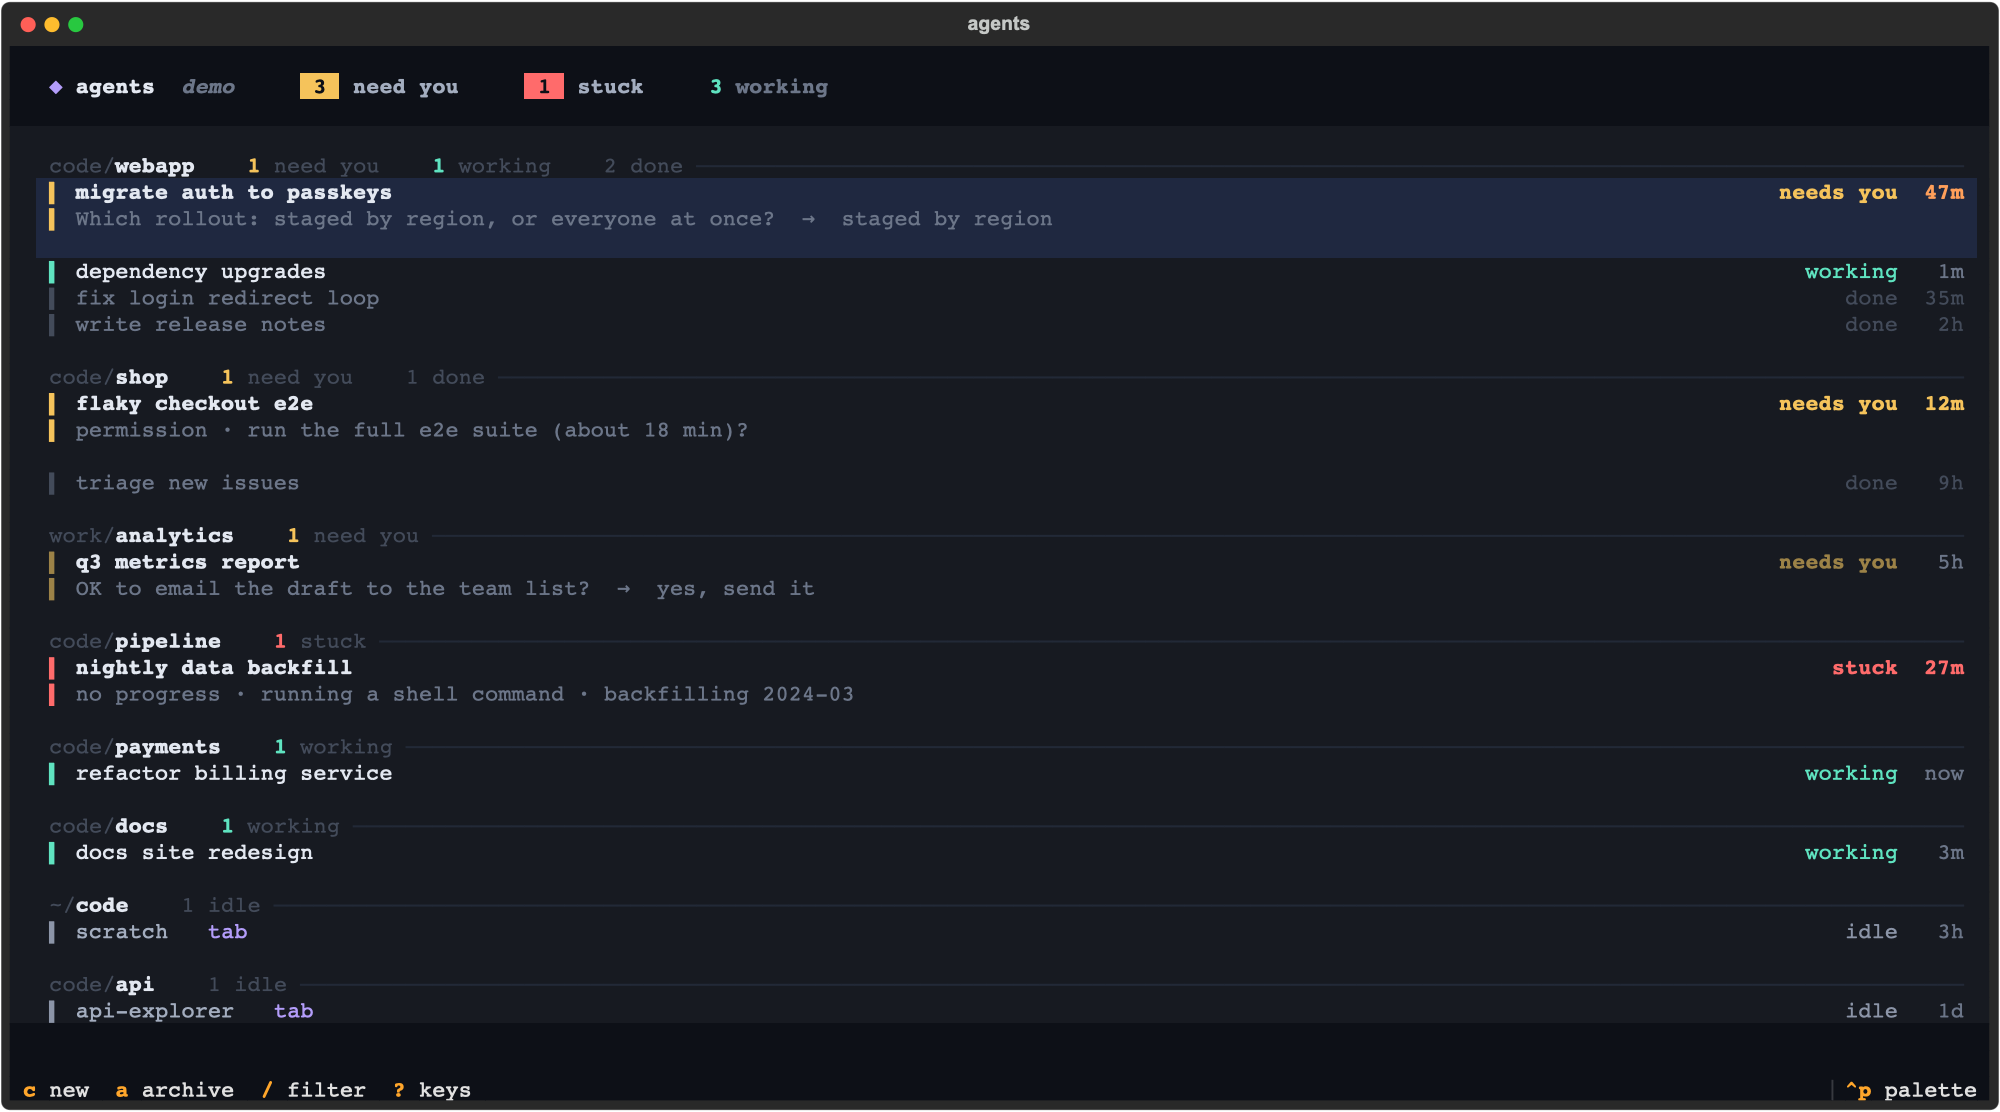
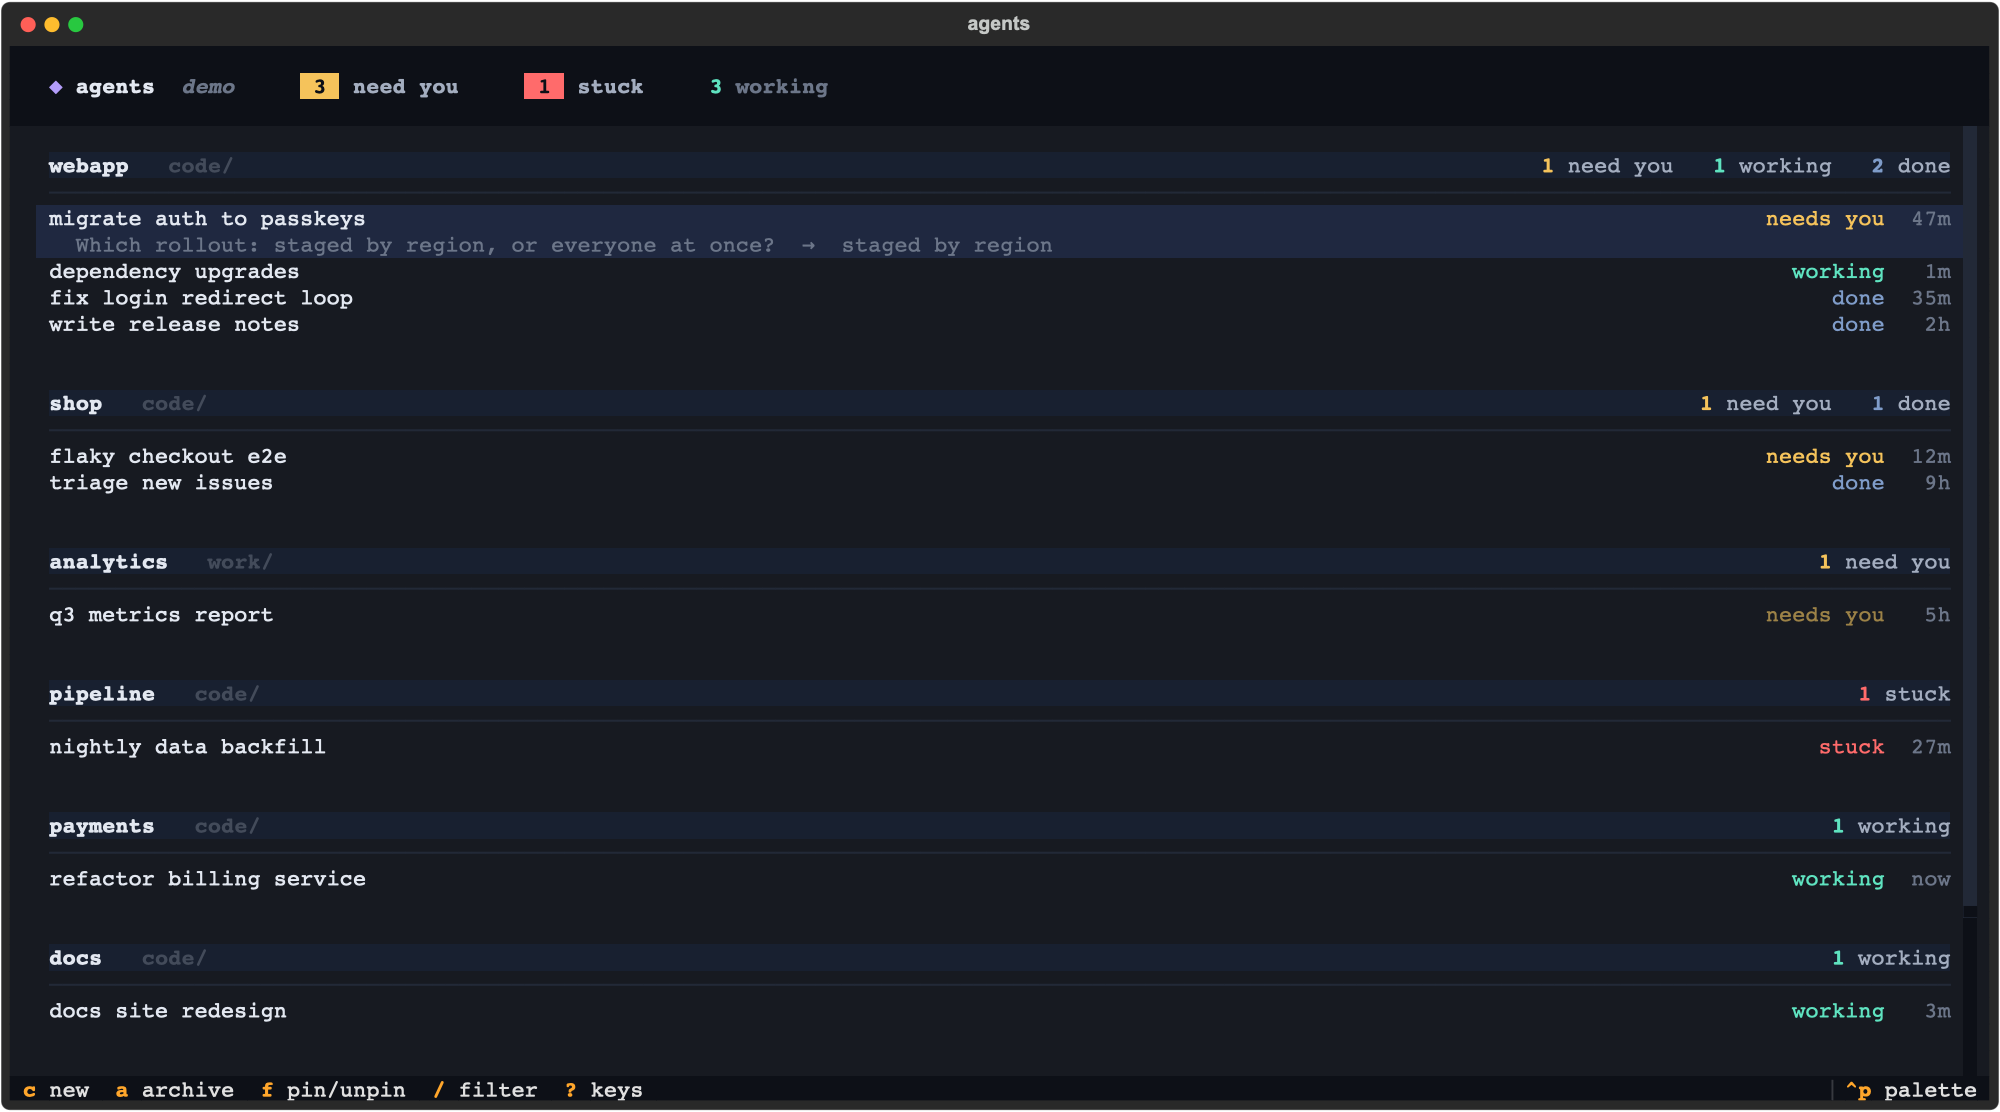
Consistent rows, firmer folders, self-tested updates
Every row is one line in the same type; only the state word carries colour
(done is blue, not faded). No left bars; the row under the cursor shows its
detail. Folders start with a tinted header band and a rule, two lines apart.
The board restarts into an update only after the new file passes --selftest.

diff --git a/tui/board.py b/tui/board.py
@@ -46,7 +46,8 @@ STATE = CLAUDE / "agents-board"
 STUCK_MS = 15 * 60_000
 PARK_MS = 2 * 86_400_000
 DONE_SHOWN = 8
-DEMO = "--demo" in sys.argv[1:]
+SELFTEST = "--selftest" in sys.argv[1:]
+DEMO = "--demo" in sys.argv[1:] or SELFTEST
 SELF = Path(__file__).resolve()
 SELF_MTIME = SELF.stat().st_mtime
 
@@ -54,6 +55,7 @@ SELF_MTIME = SELF.stat().st_mtime
 BG = "#0d1017"
 PANEL = "#131821"
 LINE = "#222937"
+BAND = "#182030"     # header bands: a folder / section starts here
 TEXT = "#e3e8f1"
 SOFT = "#a3adbf"
 DIM = "#6c7689"
@@ -66,6 +68,7 @@ TEAL = "#5fe3c0"
 SLATE = "#8c95a8"
 AMBER_SOFT = "#9c8247"   # needs you, but its process has exited ("asleep")
 RED_SOFT = "#a35a5a"
+BLUE = "#7f9cc9"     # done: its own calm colour, not faded out
 
 GROUPS: dict[str, dict[str, str]] = {
     "needs": {"title": "NEEDS YOU", "color": AMBER, "glyph": "●", "chip": "need you"},
@@ -326,8 +329,8 @@ def state_look(r: Row) -> tuple[str, str]:
         return "needs you", AMBER if live else AMBER_SOFT
     if r.group == "stuck":
         return "stuck", RED if live else RED_SOFT
-    return {"working": ("working", TEAL), "idle": ("idle", SLATE), "done": ("done", FAINT),
-            "parked": ("parked", FAINT)}[r.group]
+    return {"working": ("working", TEAL), "idle": ("idle", SLATE), "done": ("done", BLUE),
+            "parked": ("parked", DIM)}[r.group]
 
 
 def short_folder(cwd: str) -> str:
@@ -745,6 +748,8 @@ class Board(App[None]):
         self.shown: list[Row] = []
         self.side = SideViewer()
         self.restart = False
+        self.testing = False
+        self.rejected_mtime = 0.0
         self.by_folder = bool(_prefs().get("by_folder"))
         self._pins: set[str] = set()
         self.cursor_key = ""
@@ -772,7 +777,8 @@ class Board(App[None]):
             self.notify("Board updated to the latest version", timeout=6)
 
     def check_update(self) -> None:
-        """Heartbeat for /board, and a newer board.py on disk (an update): restart into it."""
+        """Heartbeat for /board, and a newer board.py on disk (an update): restart into it,
+        but only once the new version has passed its self-test."""
         ws = os.environ.get("CMUX_WORKSPACE_ID", "")
         if ws and not DEMO:
             try:
@@ -781,15 +787,31 @@ class Board(App[None]):
             except OSError:
                 pass
         try:
-            changed = SELF.stat().st_mtime != SELF_MTIME
-            # Restart only into a file that compiles: a half-saved edit keeps the running board.
-            if changed:
-                compile(SELF.read_text(), str(SELF), "exec")
-        except (OSError, SyntaxError, ValueError):
+            mtime = SELF.stat().st_mtime
+        except OSError:
             return
-        if changed:
+        if mtime != SELF_MTIME and mtime != self.rejected_mtime and not self.testing:
+            self.testing = True
+            self.try_update(mtime)
+
+    @work(thread=True, exclusive=True, group="update")
+    def try_update(self, mtime: float) -> None:
+        # Draw the new version headlessly first: one that fails stays out of the way.
+        try:
+            out = subprocess.run([sys.executable, str(SELF), "--selftest"], capture_output=True,
+                                 text=True, timeout=90)
+            ok = out.returncode == 0
+            why = (out.stderr or out.stdout).strip().splitlines()[-1:] if not ok else []
+        except Exception as err:  # a hung or missing interpreter counts as a failure
+            ok, why = False, [str(err)]
+        self.testing = False
+        if ok and SELF.stat().st_mtime == mtime:
             self.restart = True
-            self.exit()
+            self.call_from_thread(self.exit)
+        elif not ok:
+            self.rejected_mtime = mtime
+            self.call_from_thread(self.notify, f"Update skipped: the new version failed its self-test ({(why or ['?'])[0][:80]})",
+                                  severity="warning", timeout=8)
 
     def on_resize(self) -> None:
         # The detail panel is off by default (the session columns sit beside the board);
@@ -869,82 +891,66 @@ class Board(App[None]):
         return (r.session_id or r.key) in self._pins
 
     def pinned_header_prompt(self, count: int) -> Table:
+        label = Text("★ Pinned", style=f"bold {ACCENT}")
+        return self._band(label, Text(f"{count}", style=SOFT))
+
+    def _band(self, left: Text, right: Text) -> RGroup:
+        """A section's header: a tinted full-width band with a rule under it, so it is
+        plain where one folder ends and the next begins."""
         grid = Table.grid(expand=True, padding=(0, 1))
         grid.add_column(no_wrap=True)
-        grid.add_column(ratio=1)
-        label = Text("★ ", style=f"bold {ACCENT}")
-        label.append("PINNED", style=f"bold {ACCENT}")
-        label.append(f"  {count}", style=FAINT)
-        grid.add_row(label, Rule(style=LINE))
-        return grid
+        grid.add_column(ratio=1, justify="right", no_wrap=True)
+        grid.add_row(left, right)
+        return RGroup(Padding(grid, (0, 0), style=f"on {BAND}", expand=True), Rule(style=LINE, characters="─"))
 
     def _row_prompt(self, r: Row, now: float, show_folder: bool) -> Table:
-        """bar · name · state · age, on one line. A second line (what it asks, or what it is
-        doing) only where it matters: sessions that want you, and the row under the cursor."""
+        """name · state · age on one line, the same type for every state: only the state word
+        carries colour. The row under the cursor also shows what it asks or is doing."""
         ms = now - r.since
         word, color = state_look(r)
-        attention = r.group in ("needs", "stuck")
-        expanded = attention or self.cursor_key == r.key
         grid = Table.grid(expand=True, padding=(0, 1))
-        grid.add_column(width=1, no_wrap=True)
         grid.add_column(ratio=1, no_wrap=True, overflow="ellipsis")
         grid.add_column(width=9, justify="right", no_wrap=True)
         grid.add_column(width=4, justify="right", no_wrap=True)
-        bar = Text("▍", style=color)
-        name_style = f"bold {TEXT}" if attention else TEXT if r.group == "working" else SOFT if r.group == "idle" else DIM
-        name = Text(r.name, style=name_style)
+        name = Text(r.name, style=TEXT)
         if show_folder:
             name.append(f"   {short_folder(r.cwd)}", style=FAINT)
         if r.kind == "tab":
             name.append("   tab", style=ACCENT)
-        timer_style = f"bold {urgency(r, ms)}" if attention and r.pid else FAINT if r.group in ("done", "parked") else DIM
-        grid.add_row(bar, name, Text(word, style=f"bold {color}" if attention else color),
-                     Text(short_age(ms), style=timer_style))
-        if expanded:
+        grid.add_row(name, Text(word, style=color), Text(short_age(ms), style=DIM))
+        if self.cursor_key == r.key and r.note:
             note = r.note
-            if r.reply and attention:
+            if r.reply and r.group in ("needs", "stuck"):
                 note = f"{note}  →  {r.reply}"
-            grid.add_row(Text("▍", style=color) if attention else "", Text(note, style=DIM, overflow="ellipsis", no_wrap=True), "", "")
-        if attention:
-            # A two-line row gets a line of air below it, so questions don't run together.
-            grid.add_row("", "", "", "")
+            grid.add_row(Text(f"  {note}", style=DIM, overflow="ellipsis", no_wrap=True), "", "")
         return grid
 
     def header_prompt(self, group: str, count: int) -> Table:
         g = GROUPS[group]
-        grid = Table.grid(expand=True, padding=(0, 1))
-        grid.add_column(no_wrap=True)
-        grid.add_column(ratio=1)
-        label = Text(g["title"], style=f"bold {g['color']}")
-        label.append(f"  {count}", style=DIM)
-        grid.add_row(label, Rule(style=LINE))
-        return grid
+        return self._band(Text(g["title"].title(), style=f"bold {g['color']}"), Text(f"{count}", style=SOFT))
 
     def _gap(self, options: list[Option]) -> int:
-        """A header's top margin: none when the row above already left a line of air."""
-        if not options or not (options[-1].id or "").startswith("row:"):
-            return 1
-        key = (options[-1].id or "")[4:]
-        r = next((x for x in self.shown if x.key == key), None)
-        return 0 if r is not None and r.group in ("needs", "stuck") else 1
+        """Air above a section: two lines between sections, one at the very top."""
+        return 2 if options else 1
 
     def folder_header_prompt(self, cwd: str, members: list[Row]) -> Table:
-        grid = Table.grid(expand=True, padding=(0, 1))
-        grid.add_column(no_wrap=True)
-        grid.add_column(ratio=1)
         where = short_folder(cwd) or "?"
         head, _, leaf = where.rpartition("/")
-        label = Text(f"{head}/" if head else "", style=FAINT)
-        label.append(leaf, style=f"bold {TEXT}")
+        left = Text(leaf, style=f"bold {TEXT}")
+        if head:
+            left.append(f"   {head}/", style=FAINT)
         words = {"needs": "need you", "stuck": "stuck", "working": "working", "idle": "idle", "done": "done", "parked": "parked"}
+        right = Text()
         for g in ORDER:
             n = sum(1 for r in members if r.group == g)
             if n:
-                label.append("    ")
-                label.append(str(n), style=f"bold {GROUPS[g]['color']}" if g in ("needs", "stuck", "working") else FAINT)
-                label.append(f" {words[g]}", style=FAINT)
-        grid.add_row(label, Rule(style=LINE))
-        return grid
+                if right.plain:
+                    right.append("   ")
+                word, color = {"needs": (words[g], AMBER), "stuck": (words[g], RED), "working": (words[g], TEAL),
+                               "idle": (words[g], SLATE), "done": (words[g], BLUE), "parked": (words[g], DIM)}[g]
+                right.append(f"{n} ", style=f"bold {color}")
+                right.append(word, style=SOFT)
+        return self._band(left, right)
 
     def folder_options(self, rows: list[Row], now: float, before: list[Option] | None = None) -> list[Option]:
         """Sessions grouped by folder: folders that need you first, then the most recently active."""
@@ -1322,7 +1328,32 @@ class Board(App[None]):
         self.render_list()
 
 
+async def _selftest() -> None:
+    """Draw the board headlessly on demo sessions, both views and a pinned row; raise on error."""
+    app = Board()
+    async with app.run_test(size=(100, 40)) as pilot:
+        for _ in range(40):
+            await pilot.pause(0.1)
+            if app.rows:
+                break
+        assert app.rows, "no rows loaded"
+        first = app.rows[0]
+        app.pins = lambda: {first.session_id or first.key}  # type: ignore[method-assign]
+        for by_folder in (False, True):
+            app.by_folder = by_folder
+            app.render_list()
+            app.tick()
+            app.render_top()
+            app.render_detail()
+            await pilot.pause(0.1)
+        assert app.shown, "nothing drawn"
+
+
 if __name__ == "__main__":
+    if SELFTEST:
+        import asyncio
+        asyncio.run(_selftest())
+        sys.exit(0)
     app = Board()
     app.run()
     if app.restart:

diff --git a/README.md b/README.md
@@ -94,11 +94,12 @@ terminal bell and, in cmux, sends a cmux notification.
 
 Within Needs you and Stuck, running sessions come first, then the longest-waiting.
 
-Every row is one line: a coloured bar and the state in words on the right (**needs you**, **failed**,
-**stuck** in amber or red, **working** in green, **idle** and **done** in grey), with a one-unit age
-(now · 12m · 5h · 3d). Sessions that want you get a second line with what they ask, and so does the
-row under the cursor. A session that needs you but whose process has exited is drawn in a softer
-colour. The footer lists the everyday keys; `?` lists them all.
+Every row is one line in the same type, whatever its state: the name, then the state in its colour
+(**needs you** amber, **stuck** / **failed** red, **working** green, **idle** grey, **done** blue) and
+a one-unit age (now · 12m · 5h · 3d). The row under the cursor also shows what it asks or is doing.
+Each folder starts with a tinted header band (name and counts) and a rule, with space above it. A
+session that needs you but whose process has exited is drawn in a softer amber. The footer lists the
+everyday keys; `?` lists them all.
 
 ## Requirements
 
@@ -130,7 +131,11 @@ can change them and break the sorting until this is updated. Issues and PRs are 
 claude plugin validate .      # what the engine will load
 claude plugin test .          # tests/*.test.tsx against the engine
 uv run --script tui/board.py --demo
+uv run --script tui/board.py --selftest   # draws both views headlessly; exit 0 = good
 ```
+
+A running board restarts itself into a newer `board.py` only after that file passes `--selftest`, so a
+broken edit never takes the board down.
 
 The sorting rules live twice, kept in step: `hooks/classify.ts` (the mod) and `classify()` in
 `tui/board.py` (the full-screen board).
